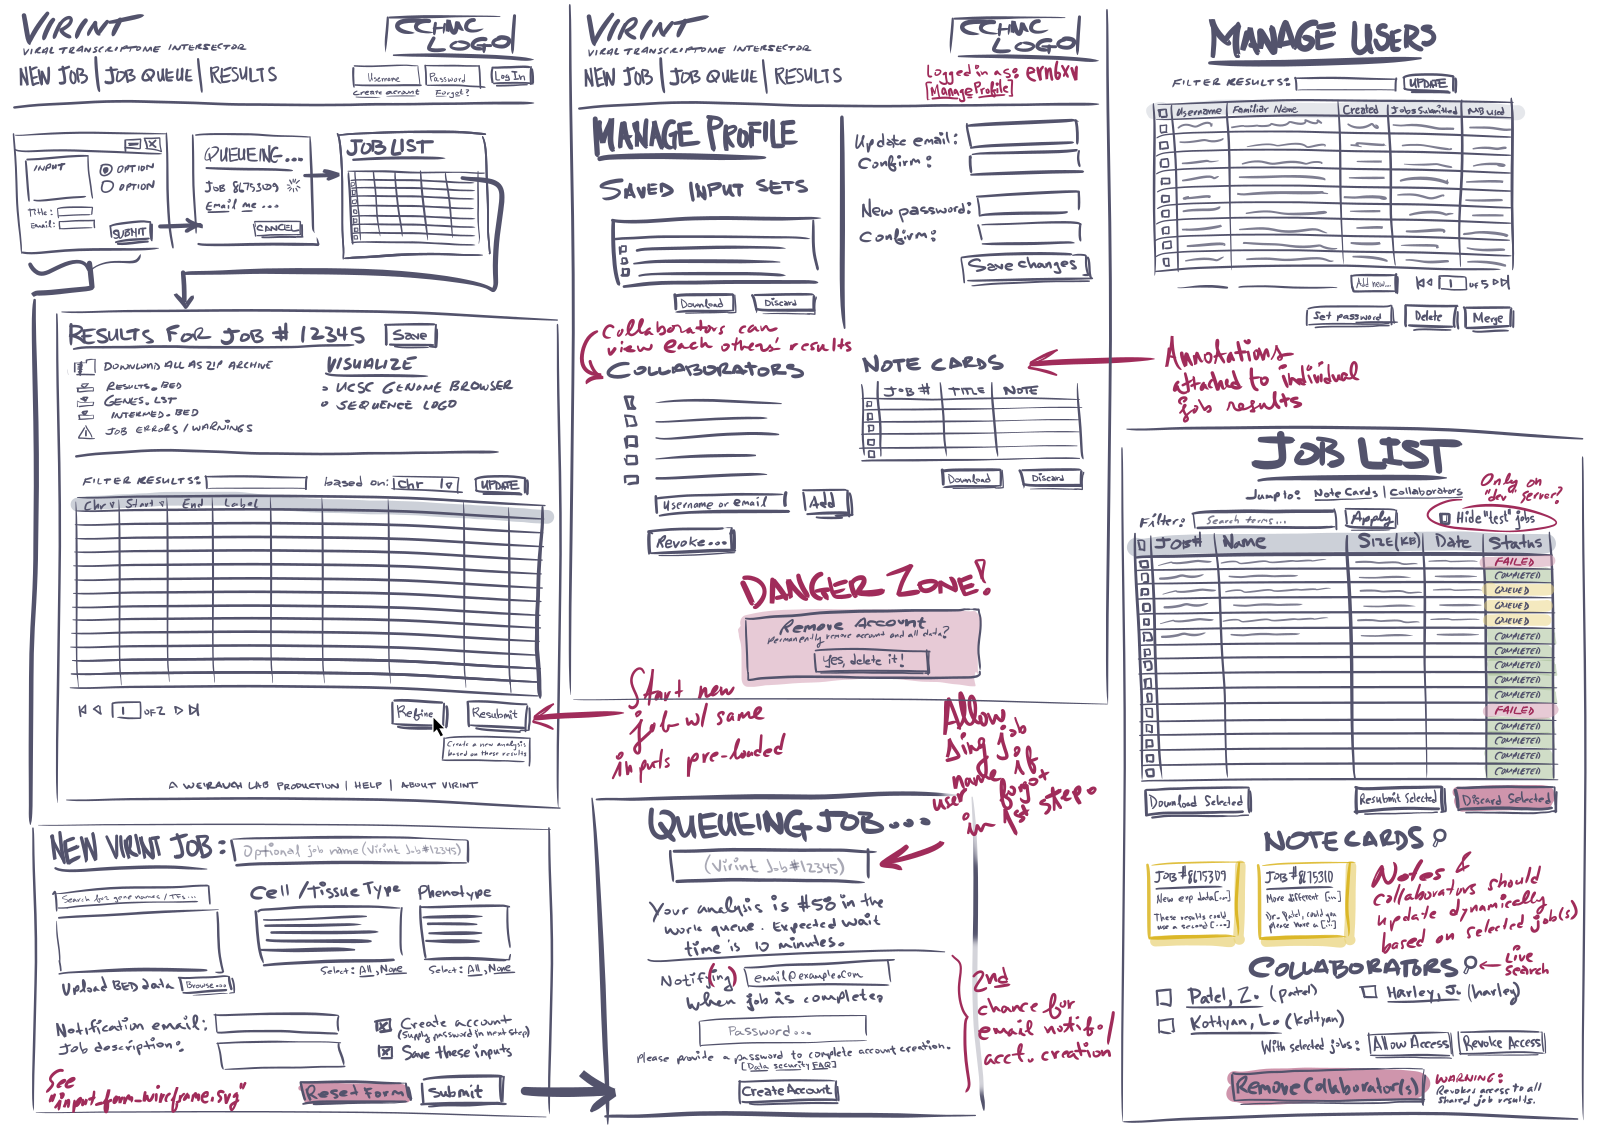
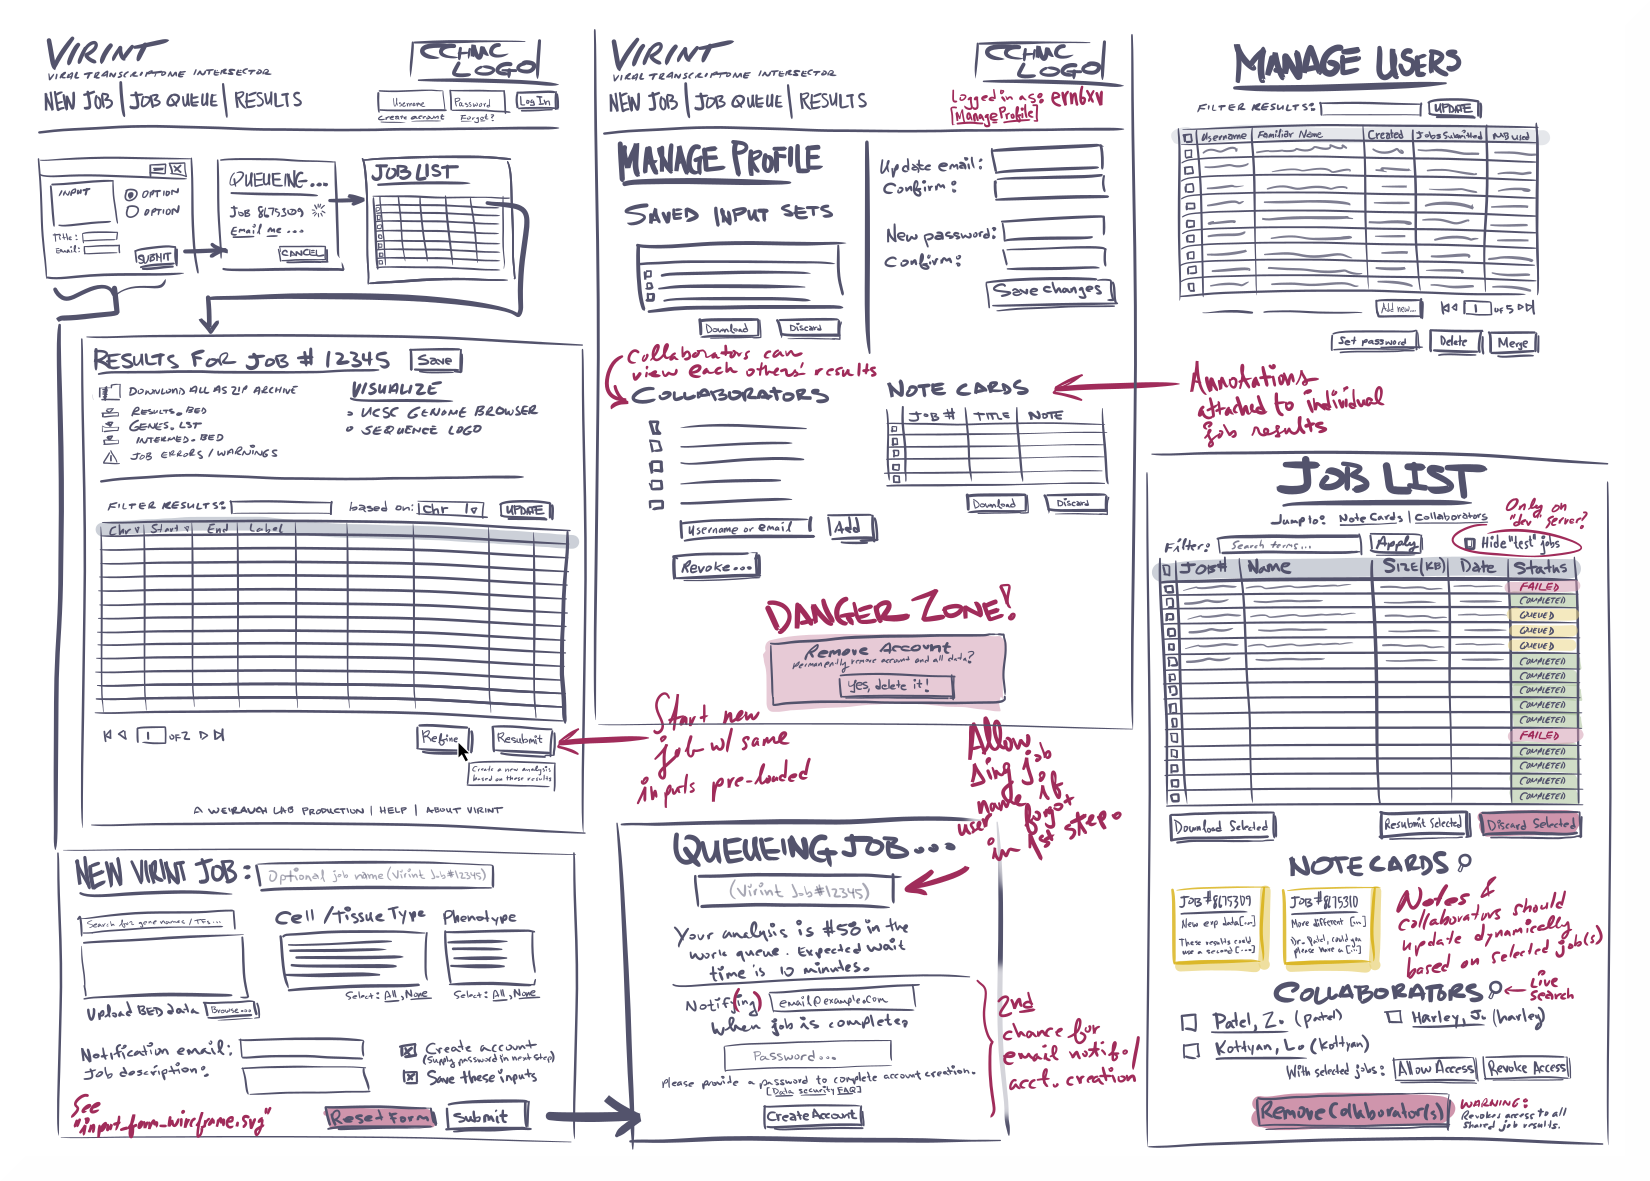
Added the rest of the design diagrams

diff --git a/index.html b/index.html
@@ -261,19 +261,22 @@
         <!-- technology - "the stack" -->
 
         <!-- architecture -->
-        <section no-data-background="img/blueridgekitties_14705848177.jpg">
+        <section data-background="img/blueridgekitties_14705848177.jpg">
           <section>
             <h1 class="bar">Architecture</h1>
-            (we're talking about Bioreactor again here)
+            (we're talking about Bioreactor again here)<br>
             <figure>
               <img class="plain" src="img\dd-l0-overview.png">
               <figcaption>
-                <a href="diagrams/design-L0.png">Overview block diagram</a>
+                Analysis overview flowchart
+                [<a href="diagrams/design-L0.png">full-size view</a>]
               </figcaption>
             </figure>
           </section>
           <section>
-            <h2 class="bar">Input / validation / submission</h2>
+            <h2 class="bar">Input validation / submission</h2>
+            The analysis has has tunable parameters, some of which are queried from
+            REST endpoints on the server (noun-like and verb-like web APIs)
             <figure>
               <img class="plain" src="img\dd-l0-web-fe.png">
               <figcaption>Input, validation, and job submission</figcaption>
@@ -281,6 +284,9 @@
           </section>
           <section>
             <h2 class="bar">Retrieval and visualization</h2>
+            Results of the analysis can be displayed in tabular form,
+            downloaded, or visualized graphically as a
+            <a href="img/consensus_logo.jpg">sequence logo</a>.
             <figure>
               <img class="plain" src="img\dd-l0-results-and-retrieval.png">
               <figcaption>Job retrieval and visualization</figcaption>
@@ -292,10 +298,36 @@
         <section>
           <section>
             <h1 class="bar">Plumbing</h1>
+            <figure>
+              <a href="diagrams/design-L1.png">
+                <img class="plain" src="img\dd-l1-overview.png">
+              </a>
+              <figcaption>
+                Detailed flowchart of front-end functions: input, parameter
+                selection, and display of results
+                [<a href="diagrams/design-L1.png">full-size view</a>]
+              </figcaption>
+            </figure>
           </section>
 
           <section>
             <h2 class="bar">Plumbing (cont'd)</h2>
+            <figure>
+              <img class="plain" src="img\dd-l1-web-fe.png">
+              <figcaption>
+                Input and analysis parameter selection
+              </figcaption>
+            </figure>
+          </section>
+
+          <section>
+            <h2 class="bar">Plumbing (cont'd)</h2>
+            <figure>
+              <img class="plain" src="img\dd-l1-web-fe.png">
+              <figcaption>
+                Input and analysis parameter selection
+              </figcaption>
+            </figure>
           </section>
 
           <!-- <section> -->
@@ -310,12 +342,37 @@
           <!--     <li class="fragment shrink">Refreshing results page until cluster job is done</li> -->
           <!--   </ul> -->
           <!-- </section> -->
-        </section>
-        <!-- plumbing -->
+
+        </section><!-- plumbing -->
 
         <!-- ui wireframes -->
         <section data-background="img/blueridgekitties_3836211195.jpg">
-          <h1 class="bar">User Interface</h1>
+
+          <section>
+            <h1 class="bar">Interface Design</h1>
+            <h3>User workflow overview:</h3>
+            <figure>
+              <a href="diagrams/input_form_wireframe.png">
+                <img style="max-height:400px" src="diagrams/app_workflow_wireframe.png">
+              </a>
+              <figcaption>
+                [<a href="diagrams/input_form_wireframe.png">full-size view</a>]
+              </figcaption>
+            </figure>
+          </section>
+
+          <section>
+            <h1 class="bar">User Interface</h1>
+            "First-launch" help, data input, and parameter selection UI:
+            <figure>
+              <img style="max-height:400px" class="plain"
+               src="diagrams/input_form_wireframe.png">
+              <figcaption>
+                [<a href="diagrams/input_form_wireframe.png">full-size view</a>]
+              </figcaption>
+            </figure>
+          </section>
+
         </section><!-- ui wireframes -->
 
         <section class="embed" data-state="embed" data-background-iframe="https://bioreactor:supersecret@ernstki.pythonanywhere.com">

diff --git a/css/theme/mine.css b/css/theme/mine.css
@@ -41,6 +41,10 @@ body {
   background: rgba(0,0,0,0.4);
 }
 
+/* figcaption {
+   font-size: large !important;
+} */
+
 .credit {
   position: fixed;
   max-height: 1.3em;
